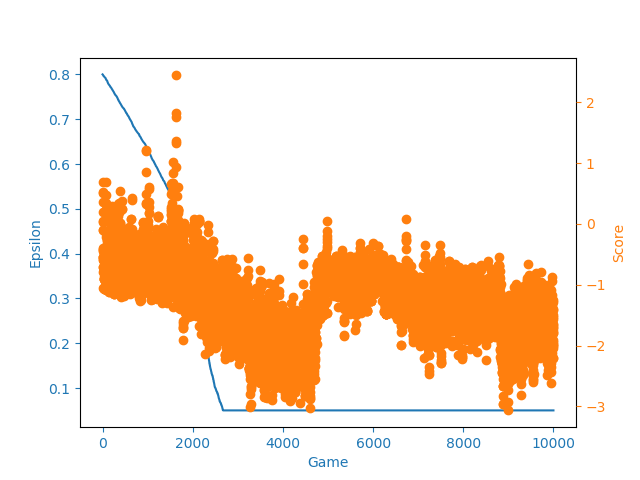
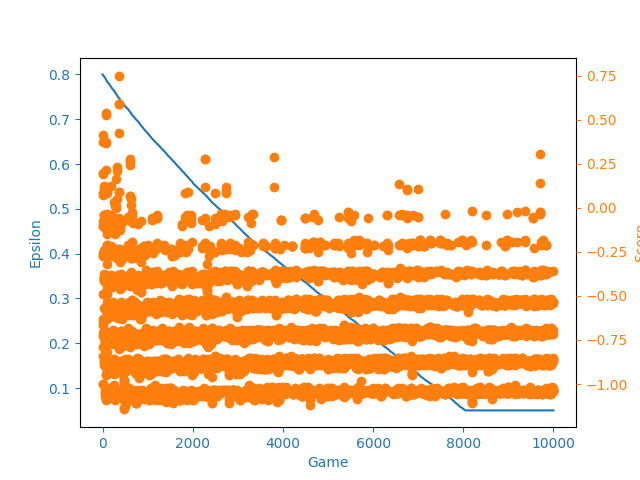
Updates

diff --git a/model.py b/model.py
@@ -8,7 +8,7 @@ import os
 class DeepQNetwork(nn.Module):
 	def __init__(self, ALPHA):
 		super(DeepQNetwork, self).__init__()
-		self.conv1 = nn.Conv2d(3, 16, 3, stride=1, padding=0)
+		self.conv1 = nn.Conv2d(4, 16, 3, stride=1, padding=0)
 		# self.maxp1 = nn.MaxPool2d(3, stride=2)
 		self.conv2 = nn.Conv2d(16, 32, 3, stride=1, padding=0)
 		self.maxp2 = nn.MaxPool2d(2, stride=1)
@@ -22,18 +22,19 @@ class DeepQNetwork(nn.Module):
 		self.to(self.device)
 
 	def forward(self, observation):
-		observation = T.Tensor(observation).to(self.device)
-		observation = observation.view(-1, 3, 7, 7) # size of image 185 x 95
-		observation = F.leaky_relu(self.conv1(observation))
+		observation = T.Tensor(observation)#.to(self.device)
+		observation = observation.view(-1, 4, 7, 7) # size of input
+		observation = self.conv1(observation)
 		# observation = F.relu(self.maxp1(observation))
-		observation = F.leaky_relu(self.conv2(observation))
-		observation = F.leaky_relu(self.maxp2(observation))
+		observation = self.conv2(observation)
+		observation = self.maxp2(observation)
 		# observation = F.relu(self.conv3(observation))
 		# print(observation)
 		observation = observation.view(-1, 2*2*32) # flatten
 		observation = F.leaky_relu(self.fc1(observation))
 		
 		actions = self.fc2(observation)
+		actions = F.normalize(actions, p=2, dim=1)
 
 		return actions
 
@@ -49,8 +50,10 @@ class Agent(object):
 		self.memory = []
 		self.memCntr = 0
 		self.replace_target_cnt = replace
-		self.Q_eval = DeepQNetwork(alpha)
-		self.Q_next = DeepQNetwork(alpha)
+		# self.Q_eval = DeepQNetwork(alpha)
+		# self.Q_next = DeepQNetwork(alpha)
+		self.model = DeepQNetwork(alpha)
+		self.model.train()
 		self.actionSpace = actionSpace
 
 
@@ -64,8 +67,10 @@ class Agent(object):
 
 	def chooseAction(self, observation):
 		rand = np.random.random()
-		actions = self.Q_eval.forward(observation)
-		# print(actions)
+		# actions = self.Q_eval.forward(observation)
+		actions = self.model.forward(observation)
+		# print("actions",actions)
+		# print("actions[0]",actions[0])
 		if rand < 1 - self.EPSILON:
 			action = T.argmax(actions[0]).item()
 		else:
@@ -77,10 +82,10 @@ class Agent(object):
 	# Batch optimisation
 	# Mitigate being trapped in a local minimum - break correlations between state transitions
 	def learn(self, batch_size):
-		self.Q_eval.optimiser.zero_grad() # batch optimisation instead of full optimisation
+		# self.Q_eval.optimiser.zero_grad() # batch optimisation instead of full optimisation
 		
-		if self.replace_target_cnt is not None and self.learn_step_counter % self.replace_target_cnt == 0:
-			self.Q_next.load_state_dict(self.Q_eval.state_dict()) # not used
+		# if self.replace_target_cnt is not None and self.learn_step_counter % self.replace_target_cnt == 0:
+		# 	self.Q_next.load_state_dict(self.Q_eval.state_dict()) # not used
 
 		if self.memCntr+batch_size < self.memSize:
 			memStart = int(np.random.choice(range(self.memCntr)))
@@ -88,23 +93,41 @@ class Agent(object):
 			memStart = int(np.random.choice(range(self.memSize-batch_size-1)))
 
 		miniBatch = self.memory[memStart:memStart+batch_size]
-		# print(miniBatch)
+		# print("miniBatch", miniBatch)
+
 		memory = np.array(miniBatch)
+		# print("memory", list(memory))
 		# memory = miniBatch
 
-		Qpred = self.Q_eval.forward(list(memory[:, 0][:])).to(self.Q_eval.device)
-		Qnext = self.Q_next.forward(list(memory[:, 4][:])).to(self.Q_eval.device)
+		# Qpred = self.Q_eval.forward(list(memory[:, 0][:])).to(self.Q_eval.device)
+		# Qnext = self.Q_next.forward(list(memory[:, 4][:])).to(self.Q_eval.device)
 
-		maxA = T.argmax(Qnext, dim=1).to(self.Q_eval.device)
-		reward = T.Tensor(list(memory[:,2])).to(self.Q_eval.device)
+		Qpred = self.model.forward(list(memory[:, 0][:]))#.to(self.model.device)
+		Qnext = self.model.forward(list(memory[:, 4][:]))#.to(self.model.device)
+
+		# print("Qpred", Qpred)
+		# print("Qnext", Qnext)
+
+		# maxA = T.argmax(Qnext, dim=1).to(self.Q_eval.device)
+		# reward = T.Tensor(list(memory[:,2])).to(self.Q_eval.device)
+		maxA = T.argmax(Qnext, dim=1)#.to(self.model.device)
+		# print("maxA", maxA)
+		reward = T.Tensor(list(memory[:,2]))#.to(self.model.device)
+		# reward = list(memory[:,2])#.to(self.model.device)
+		# print("reward", reward)
+		terminal = memory[:,3]
 		# Qtarget = Qpred
 		Qtarget = Qpred.clone()
 		# Qtarget[:, maxA] = reward + self.GAMMA*T.max(Qnext[1])
+		
 		for i in range(batch_size):
-			if memory[:, 3][i]:
+			if terminal[i]:
 				Qtarget[i][maxA[i]] = reward[i]
 			else:
 				Qtarget[i][maxA[i]] = reward[i] + self.GAMMA*T.max(Qnext[i])
+
+		# print("Qtarget", Qtarget)
+		# print()
 
 		# linear decrease of epsilon
 		if self.steps > 500:
@@ -113,9 +136,17 @@ class Agent(object):
 			else:
 				self.EPSILON = self.EPS_END
 
-		loss = self.Q_eval.loss(Qtarget, Qpred).to(self.Q_eval.device) # calculate loss function
+		# loss = self.Q_eval.loss(Qtarget, Qpred).to(self.Q_eval.device) # calculate loss function
+		loss = self.model.loss(Qtarget, Qpred)#.to(self.model.device) # calculate loss function
+
+		# print("loss", loss)
+
+		self.model.optimiser.zero_grad() # Zero gradients
+
 		loss.backward() # back propagate
-		self.Q_eval.optimiser.step()
+
+		# self.Q_eval.optimiser.step()
+		self.model.optimiser.step()
 		self.learn_step_counter += 1
 
 		return loss
@@ -126,7 +157,9 @@ class Agent(object):
 		except Exception:
 			print('Could not create directory ./Models/Torch')
 
-		T.save(self.Q_eval.state_dict(), name)
+		# T.save(self.Q_eval.state_dict(), name)
+		T.save(self.model.state_dict(), name)
 
 	def load_model(self, name):
-		self.Q_eval.load_state_dict(T.load(name))
+		# self.Q_eval.load_state_dict(T.load(name))
+		self.model.load_state_dict(T.load(name))

diff --git a/Malmo_Environment.py b/Malmo_Environment.py
@@ -290,11 +290,11 @@ class Environment:
 
         # Initialze to -1 for every time step - to find the fastest route (can be a more negative reward)
         # reward = -1
-        reward = -0.05
+        reward = -0.1
 
         # Test: if moving, give a reward
         if self.steve.dx != 0 or self.steve.dy != 0:
-            reward = 0
+            reward = -0.01
 
 
         # Update the position of steve 
@@ -326,12 +326,12 @@ class Environment:
 
 
         # Make the most recent history have the most negative rewards
-        # decay = (1+reward_each_time_step)/(self.steve.history_size-1)
-        # for i in range(len(self.steve.history) - 1):
-        #     # print(-1*(1-decay*i))
-        #     if ((self.steve.x, self.steve.y) == (self.steve.history[-i-2][0], self.steve.history[-i-2][1])):
-        #         reward = -1*(1-decay*i)
-        #         break
+        decay = (1+reward_each_time_step)/(self.steve.history_size-1)
+        for i in range(len(self.steve.history) - 1):
+            # print(-1*(1-decay*i))
+            if ((self.steve.x, self.steve.y) == (self.steve.history[-i-2][0], self.steve.history[-i-2][1])):
+                reward = -1*(1-decay*i)
+                break
 
         # Checking if Steve has reached the food
         reached_food, eaten_food = self.food.eat(self.steve)
@@ -519,24 +519,24 @@ class Environment:
         sy = int(self.steve.y/self.SCALE)
 
         # state = np.zeros((3, self.LOCAL_GRID_SIZE, self.LOCAL_GRID_SIZE))
-        state = np.zeros((3, self.LOCAL_GRID_SIZE, self.LOCAL_GRID_SIZE)) # When using history
+        state = np.zeros((4, self.LOCAL_GRID_SIZE, self.LOCAL_GRID_SIZE)) # When using history
 
         # Agent
         local_pos = int((self.LOCAL_GRID_SIZE-1)/2)
         state[0, local_pos, local_pos] = 1
 
         # History
-        # decay = 1/self.steve.history_size
+        decay = 1/self.steve.history_size
 
-        # for i in range(len(self.steve.history)-1):
-        #     x_prime = local_pos+int(self.steve.history[-i-2][0]/self.SCALE)-int(self.steve.x/self.SCALE)
-        #     y_prime = local_pos+int(self.steve.history[-i-2][1]/self.SCALE)-int(self.steve.y/self.SCALE)
+        for i in range(len(self.steve.history)-1):
+            x_prime = local_pos+int(self.steve.history[-i-2][0]/self.SCALE)-int(self.steve.x/self.SCALE)
+            y_prime = local_pos+int(self.steve.history[-i-2][1]/self.SCALE)-int(self.steve.y/self.SCALE)
 
-        #     if x_prime < self.LOCAL_GRID_SIZE and x_prime >= 0 and y_prime < self.LOCAL_GRID_SIZE and y_prime >= 0:
-        #         if 1-decay*i >= 0 and state[3, y_prime, x_prime] == 0:
-        #             state[3, y_prime, x_prime] = 1-decay*i
-        #         # else:
-        #             # state[3, y_prime, x_prime] = 0
+            if x_prime < self.LOCAL_GRID_SIZE and x_prime >= 0 and y_prime < self.LOCAL_GRID_SIZE and y_prime >= 0:
+                if 1-decay*i >= 0 and state[3, y_prime, x_prime] == 0:
+                    state[3, y_prime, x_prime] = 1-decay*i
+                # else:
+                    # state[3, y_prime, x_prime] = 0
 
         # Food
         for i in range(self.NUM_OF_FOOD):
@@ -657,7 +657,7 @@ class Environment:
             # action_space has to be 3 for the players controls, 
             # because they know that the steve can't go backwards
             s, r, GAME_OVER, i = self.step(action)
-            # print("\n\n",self.local_state_vector_3D()) # DEBUGGING
+            print("\n\n",self.local_state_vector_3D()) # DEBUGGING
             # print(r)
             # For the steve to look like it ate the food, render needs to be last
             # Next piece of code if very BAD programming

diff --git a/torchtest.py b/torchtest.py
@@ -1,0 +1,56 @@
+import torch
+
+dtype = torch.float
+device = torch.device("cpu")
+# device = torch.device("cuda:0") # Uncomment this to run on GPU
+
+# N is batch size; D_in is input dimension;
+# H is hidden dimension; D_out is output dimension.
+N, D_in, H, D_out = 64, 1000, 100, 10
+
+# Create random Tensors to hold input and outputs.
+# Setting requires_grad=False indicates that we do not need to compute gradients
+# with respect to these Tensors during the backward pass.
+x = torch.randn(N, D_in, device=device, dtype=dtype)
+y = torch.randn(N, D_out, device=device, dtype=dtype)
+
+# Create random Tensors for weights.
+# Setting requires_grad=True indicates that we want to compute gradients with
+# respect to these Tensors during the backward pass.
+w1 = torch.randn(D_in, H, device=device, dtype=dtype, requires_grad=True)
+w2 = torch.randn(H, D_out, device=device, dtype=dtype, requires_grad=True)
+
+learning_rate = 1e-6
+for t in range(500):
+    # Forward pass: compute predicted y using operations on Tensors; these
+    # are exactly the same operations we used to compute the forward pass using
+    # Tensors, but we do not need to keep references to intermediate values since
+    # we are not implementing the backward pass by hand.
+    y_pred = x.mm(w1).clamp(min=0).mm(w2)
+
+    # Compute and print loss using operations on Tensors.
+    # Now loss is a Tensor of shape (1,)
+    # loss.item() gets the a scalar value held in the loss.
+    loss = (y_pred - y).pow(2).sum()
+    print(t, loss.item())
+
+    # Use autograd to compute the backward pass. This call will compute the
+    # gradient of loss with respect to all Tensors with requires_grad=True.
+    # After this call w1.grad and w2.grad will be Tensors holding the gradient
+    # of the loss with respect to w1 and w2 respectively.
+    loss.backward()
+
+    # Manually update weights using gradient descent. Wrap in torch.no_grad()
+    # because weights have requires_grad=True, but we don't need to track this
+    # in autograd.
+    # An alternative way is to operate on weight.data and weight.grad.data.
+    # Recall that tensor.data gives a tensor that shares the storage with
+    # tensor, but doesn't track history.
+    # You can also use torch.optim.SGD to achieve this.
+    with torch.no_grad():
+        w1 -= learning_rate * w1.grad
+        w2 -= learning_rate * w2.grad
+
+        # Manually zero the gradients after updating weights
+        w1.grad.zero_()
+        w2.grad.zero_()

diff --git a/minecraft_simulation.py b/minecraft_simulation.py
@@ -16,9 +16,9 @@ def train():
 
 	WRAP = False
 	GRID_SIZE = 5
-	LOCAL_GRID_SIZE = 9 # Has to be an odd number (I think...)
+	LOCAL_GRID_SIZE = 7 # Has to be an odd number (I think...)
 	SEED = 1
-	FOOD_COUNT = 3
+	FOOD_COUNT = 6
 	OBSTACLE_COUNT = 0
 	# MAP_PATH = "./Maps/Grid{}/map2.txt".format(GRID_SIZE)
 	MAP_PATH = None
@@ -33,7 +33,7 @@ def train():
 					  action_space = 5,
 					  map_path = MAP_PATH)
 
-	brain = Agent(gamma = 0.99, epsilon = start_eps, alpha = 0.003, maxMemorySize = 10000, replace = None)
+	brain = Agent(gamma = 0.99, epsilon = start_eps, alpha = 0.001, maxMemorySize = 10000, replace = 10)
 
 	if LOAD_MODEL:
 		try:
@@ -67,7 +67,7 @@ def train():
 
 			observation_, reward, done, info = env.step(action)
 			observation_ = env.local_state_vector_3D()
-			# print(observation_)
+			# print(reward)
 			if done:
 				# reward = -1
 				games_played += 1
@@ -80,9 +80,9 @@ def train():
 
 	scores = []
 	epsHistory = []
-	numGames = 10000
-	print_episode = 100
-	batch_size = 16
+	numGames = 100000
+	print_episode = 1000
+	batch_size = 8
 
 	avg_score = 0
 	avg_time = 0

diff --git a/steve.py b/steve.py
@@ -14,7 +14,7 @@ class Steve:
         self.steve_img = None
 
         # Used for the CNN local network input to see where the snake has been recently
-        self.history_size = 100 # Needs to be proportional to the grid size
+        self.history_size = 5 # Needs to be proportional to the grid size
         self.history = []
 
         # Not used
